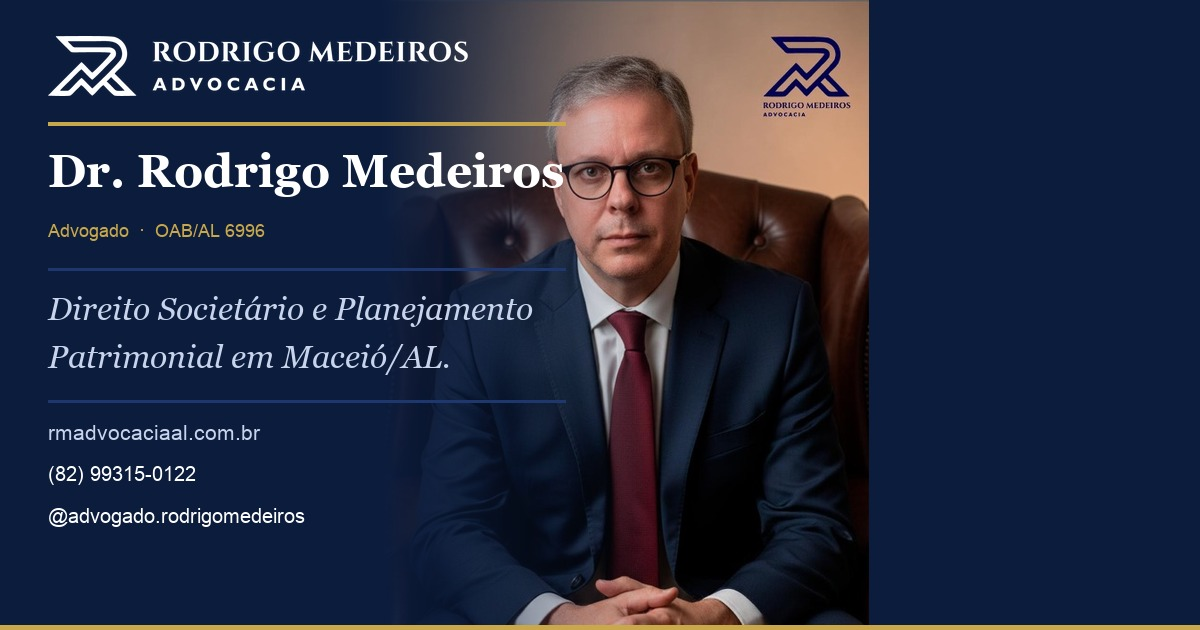
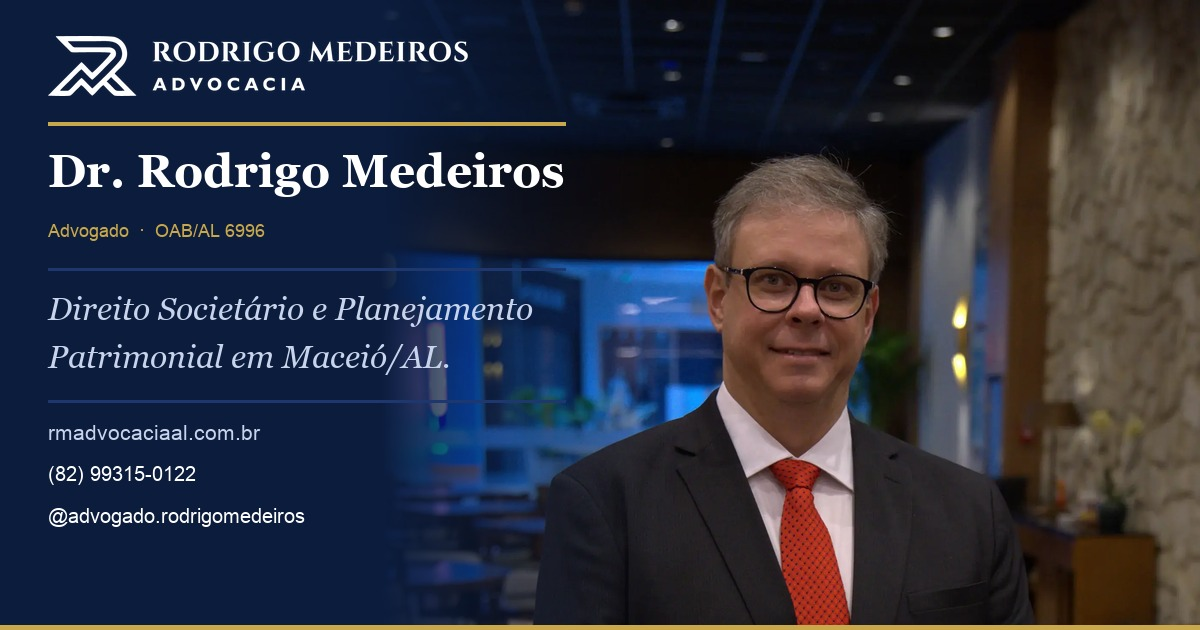
Troca foto da hero e atualiza OG image com foto de estúdio

diff --git a/index.html b/index.html
@@ -157,7 +157,7 @@
           <div class="hero__photo-wrap">
             <img
               class="hero__photo"
-              src="assets/imagens/og-rodrigo-medeiros-advocacia.jpg"
+              src="assets/imagens/rodrigo-medeiros-advogado-direito-societario-maceio.webp"
               alt="Rodrigo Medeiros, advogado especialista em Direito Societário em Maceió"
               width="460" height="613"
               loading="eager" fetchpriority="high"
